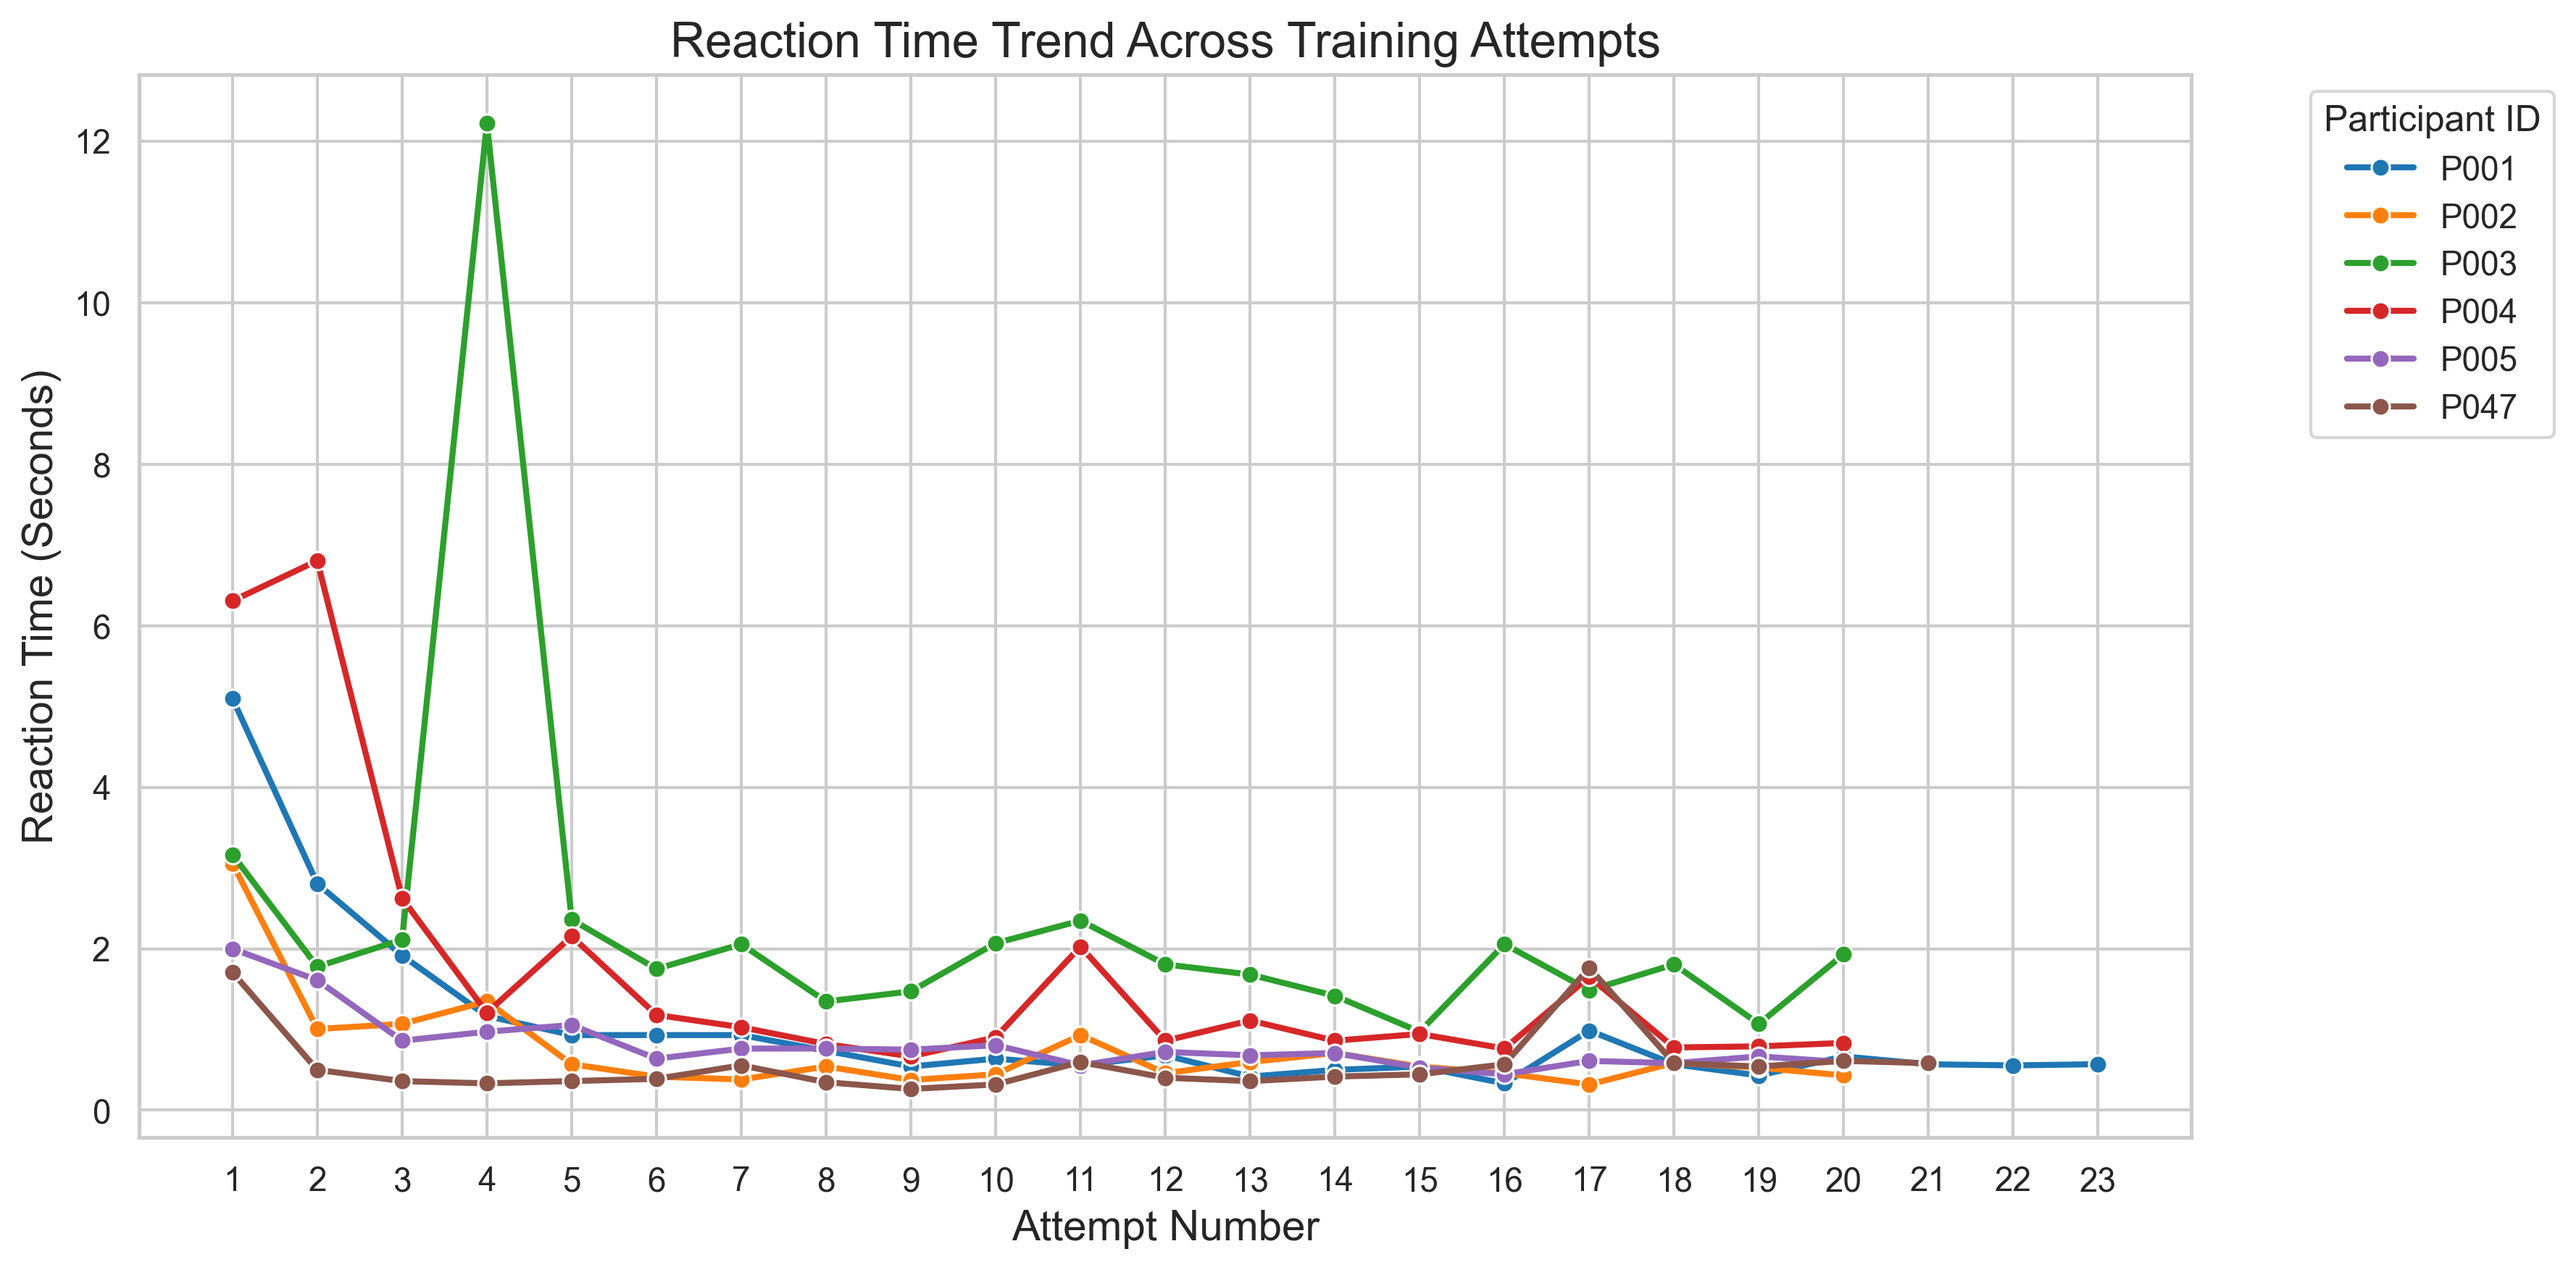
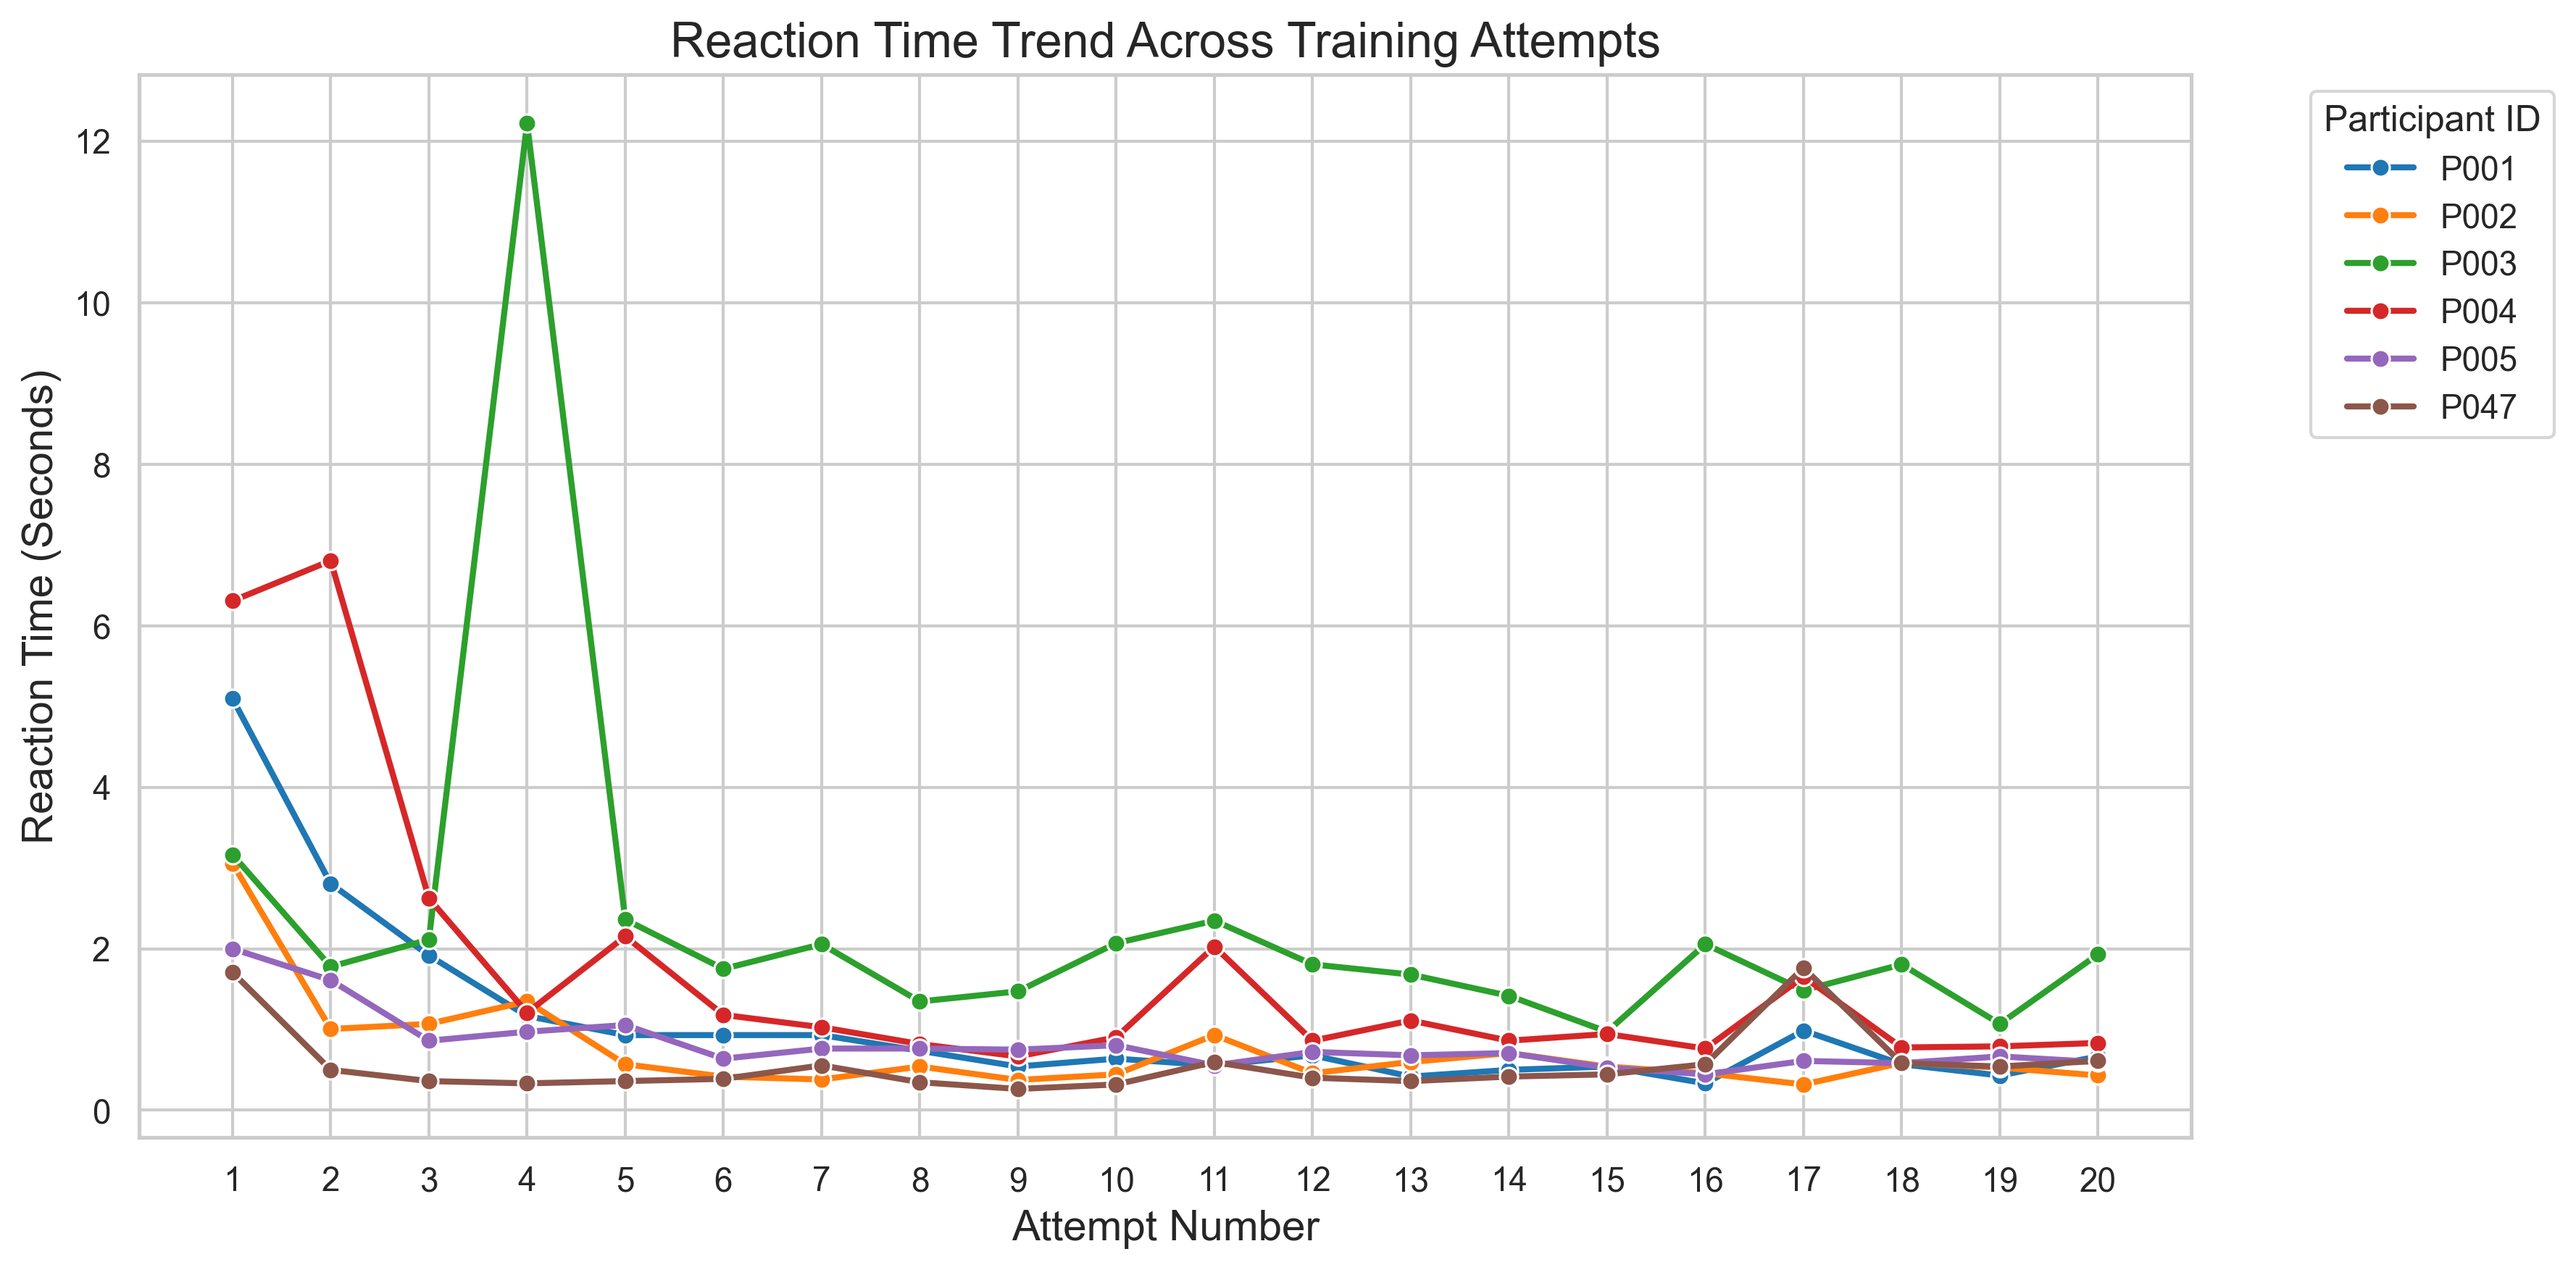
bbb

diff --git a/Analysing/Graph2.py b/Analysing/Graph2.py
@@ -21,7 +21,6 @@ folder_path = "E:\\Project\\6CCE3EEP_FYP\\Analysing\\PC\\"
 # 2. 自动抓取该文件夹下所有符合命名规律的 csv 文件
 # 匹配你在 Unity 里设置的文件名格式：P001_TrackingData_xxx.csv
 file_list = glob.glob(os.path.join(folder_path, "*_TrackingData_*.csv"))
-# 只分析答对的试次，剔除乱找的数据
 
 # 3. 循环读取并合并
 df_list = []
@@ -34,7 +33,17 @@ df_all = pd.concat(df_list, ignore_index=True)
 
 print(f"成功合并了 {len(file_list)} 个被试的数据！共 {len(df_all)} 行。")
 
-# 接下来，你就可以把 df_all 直接当成之前代码里的 df 来画图了！
+# 【新增：读取 Training 基线数据】
+folder_path_train = "E:\\Project\\6CCE3EEP_FYP\\"
+baseline_file_path = os.path.join(folder_path_train, 'Training_Converged_Results.csv')
+# 增加一个防报错机制，如果没找到原文件，找 Max20 版本
+try:
+    train_baseline_df = pd.read_csv(baseline_file_path)
+except FileNotFoundError:
+    train_baseline_df = pd.read_csv(os.path.join(folder_path_train, 'Training_Converged_Results_Max20.csv'))
+
+# 提取基线字典 (使用最后5次趋近平均值作为该被试的颜色识别误差时间)
+baseline_dict = dict(zip(train_baseline_df['ParticipantID'], train_baseline_df['Converged_Time_Last5_sec']))
 
 
 # ==========================================
@@ -47,6 +56,11 @@ rt_df.rename(columns={'TimeStamp_sec': 'ReactionTime'}, inplace=True)
 # 过滤：只保留答对的试次，并剔除大于 10 秒的离群值
 rt_df_correct = rt_df[(rt_df['isCorrect'] == 1) & (rt_df['ReactionTime'] <= 10.0)].copy()
 
+# 【新增核心步骤：减去 Training 的颜色识别误差时间】
+rt_df_correct['BaselineTime'] = rt_df_correct['ParticipantID'].map(baseline_dict)
+rt_df_correct = rt_df_correct.dropna(subset=['BaselineTime']) # 防止匹配失败导致NaN
+rt_df_correct['Adjusted_RT'] = rt_df_correct['ReactionTime'] - rt_df_correct['BaselineTime']
+
 # 【核心更新：应用你的真实 32 目标坐标系】
 # 定义 8 个水平方位和 4 个垂直高度的数组
 azimuth_map = [0, 45, 90, 135, 180, -135, -90, -45]
@@ -56,19 +70,19 @@ elevation_map = [-30, 0, 30, 60]
 rt_df_correct['Target_Yaw'] = rt_df_correct['TargetNumber'].apply(lambda x: azimuth_map[int(x) // 4])
 rt_df_correct['Target_Pitch'] = rt_df_correct['TargetNumber'].apply(lambda x: elevation_map[int(x) % 4])
 
-# 分组计算 HRTF_A 和 HRTF_B 在每个空间位置的“平均寻找时间”
-spatial_rt = rt_df_correct.groupby(['Phase', 'Target_Yaw', 'Target_Pitch'])['ReactionTime'].mean().reset_index()
+# 分组计算 HRTF_A 和 HRTF_B 在每个空间位置的“平均寻找时间” (替换为使用净时间 Adjusted_RT)
+spatial_rt = rt_df_correct.groupby(['Phase', 'Target_Yaw', 'Target_Pitch'])['Adjusted_RT'].mean().reset_index()
 
 # ==========================================
 # 3. 开始绘图 (双子图对比气泡图)
 # ==========================================
 # 获取全局最短和最长的时间，确保左右两张图的颜色和气泡大小共用同一套标准
-vmin = spatial_rt['ReactionTime'].min()
-vmax = spatial_rt['ReactionTime'].max()
+vmin = spatial_rt['Adjusted_RT'].min()
+vmax = spatial_rt['Adjusted_RT'].max()
 
 fig, axes = plt.subplots(1, 2, figsize=(15, 6), sharey=True)
 phases = ['HRTF_A', 'HRTF_B']
-titles = ['HRTF A 空间耗时分布', 'HRTF B 空间耗时分布']
+titles = ['HRTF A Spatial Search Time Distribution', 'HRTF B Spatial Search Time Distribution']
 
 # 为了让画出来的图符合人类直觉，强制规范 X轴(从左到右) 和 Y轴(从下到上) 的刻度顺序
 x_order = [-135, -90, -45, 0, 45, 90, 135, 180]
@@ -78,10 +92,10 @@ for i, phase in enumerate(phases):
     ax = axes[i]
     phase_data = spatial_rt[spatial_rt['Phase'] == phase]
     
-    # 绘制散点气泡图
+    # 绘制散点气泡图 (将 size 和 hue 绑定到减去误差后的 Adjusted_RT)
     scatter = sns.scatterplot(
         x='Target_Yaw', y='Target_Pitch',
-        size='ReactionTime', hue='ReactionTime',
+        size='Adjusted_RT', hue='Adjusted_RT',
         sizes=(150, 1500), # 气泡大小的变化范围，可根据画面拥挤程度调整
         alpha=0.8,
         palette='YlOrRd',  # 黄-橙-红渐变，红色代表耗时最久 (盲区)
@@ -93,7 +107,7 @@ for i, phase in enumerate(phases):
     )
     
     ax.set_title(titles[i], fontsize=15, fontweight='bold', pad=15)
-    ax.set_xlabel('水平方位角 Yaw (度)', fontsize=12)
+    ax.set_xlabel('Horizontal Yaw (degrees)', fontsize=12)
     
     # 强制设置 X 和 Y 轴刻度，展示你设计的所有可能点位
     ax.set_xticks(x_order)
@@ -106,7 +120,7 @@ for i, phase in enumerate(phases):
     # 加入网格辅助线，便于对应具体坐标
     ax.grid(True, linestyle='--', alpha=0.6)
 
-axes[0].set_ylabel('垂直高度角 Pitch (度)', fontsize=12)
+axes[0].set_ylabel('Vertical Pitch (degrees)', fontsize=12)
 
 # ==========================================
 # 4. 添加全局统一的颜色图例 (Colorbar)
@@ -114,10 +128,11 @@ axes[0].set_ylabel('垂直高度角 Pitch (度)', fontsize=12)
 sm = plt.cm.ScalarMappable(cmap='YlOrRd', norm=plt.Normalize(vmin=vmin, vmax=vmax))
 sm.set_array([])
 cbar = fig.colorbar(sm, ax=axes, orientation='vertical', fraction=0.02, pad=0.02)
-cbar.set_label('平均寻找时间 (秒)', fontsize=12, labelpad=10)
+# 稍微修改了 Colorbar 的标签以匹配数据逻辑
+cbar.set_label('Average Adjusted Search Time (seconds)', fontsize=12, labelpad=10)
 
-plt.suptitle('空间听觉定位耗时分布对比 (红色气泡越大代表耗时越久)', fontsize=18, fontweight='bold', y=1.05)
+plt.suptitle('Spatial Auditory Localization Time Distribution Comparison (Larger Red Bubbles Indicate Longer Times)', fontsize=18, fontweight='bold', y=1.05)
 
 # 保存高刷大图
-plt.savefig('Fig2_Spatial_BubblePlot.png', dpi=300, bbox_inches='tight')
+plt.savefig('Figure 2 Spatial_BubblePlot.png', dpi=300, bbox_inches='tight')
 plt.show()

diff --git a/Analysing/Graph1.py b/Analysing/Graph1.py
@@ -1,0 +1,121 @@
+import pandas as pd
+import matplotlib.pyplot as plt
+import seaborn as sns
+import matplotlib.ticker as ticker
+import glob
+import os
+import warnings
+
+# 忽略 Seaborn 的一些版本警告
+warnings.filterwarnings("ignore")
+
+# ==========================================
+# 0. 基础设置与中文字体支持
+# ==========================================
+plt.rcParams['font.sans-serif'] = ['SimHei', 'Microsoft YaHei']
+plt.rcParams['axes.unicode_minus'] = False
+
+# ==========================================
+# 1. 读取数据 (包含 Tracking 和 Training 基线)
+# ==========================================
+# 1.1 读取 Tracking 数据
+folder_path = "E:\\Project\\6CCE3EEP_FYP\\Analysing\\PC\\"
+file_list = glob.glob(os.path.join(folder_path, "*_TrackingData_*.csv"))
+
+df_list = []
+for file in file_list:
+    temp_df = pd.read_csv(file)
+    df_list.append(temp_df)
+
+df_all = pd.concat(df_list, ignore_index=True)
+print(f"成功合并了 {len(file_list)} 个 Tracking 数据！共 {len(df_all)} 行。")
+
+# 1.2 读取 Training 趋近结果 (提取基线)
+# 修复了之前的路径问题，确保它去 PC 文件夹下找这个文件
+folder_path_train = "E:\\Project\\6CCE3EEP_FYP\\"
+baseline_file_path = os.path.join(folder_path_train, 'Training_Converged_Results.csv')
+train_baseline_df = pd.read_csv(baseline_file_path)
+
+# 我们采用“最后5次的平均趋近时间”作为该被试的个人生理基线
+baseline_dict = dict(zip(train_baseline_df['ParticipantID'], train_baseline_df['Converged_Time_Last5_sec']))
+
+# ==========================================
+# 2. 数据处理：计算调整后的反应时间 (Adjusted Reaction Time)
+# ==========================================
+# 提取反应时间
+rt_df = df_all.groupby(['ParticipantID', 'Phase', 'Trial', 'isCorrect'])['TimeStamp_sec'].max().reset_index()
+rt_df.rename(columns={'TimeStamp_sec': 'ReactionTime'}, inplace=True)
+
+# 过滤答对的试次
+rt_df_correct = rt_df[rt_df['isCorrect'] == 1].copy()
+
+# 【核心步骤】：映射被试的 Training 基线，并做减法
+rt_df_correct['BaselineTime'] = rt_df_correct['ParticipantID'].map(baseline_dict)
+rt_df_correct = rt_df_correct.dropna(subset=['BaselineTime'])
+rt_df_correct['Adjusted_RT'] = rt_df_correct['ReactionTime'] - rt_df_correct['BaselineTime']
+
+# ==========================================
+# 2.5 数据过滤：剔除极端离群值 (基于 Adjusted_RT)
+# ==========================================
+original_count = len(rt_df_correct)
+
+Q1 = rt_df_correct['Adjusted_RT'].quantile(0.25)
+Q3 = rt_df_correct['Adjusted_RT'].quantile(0.75)
+IQR = Q3 - Q1
+
+lower_bound = Q1 - 1.5 * IQR
+upper_bound = Q3 + 1.5 * IQR
+
+rt_df_filtered = rt_df_correct[
+    (rt_df_correct['Adjusted_RT'] >= lower_bound) & 
+    (rt_df_correct['Adjusted_RT'] <= upper_bound)
+]
+
+dropped_count = original_count - len(rt_df_filtered)
+print(f"【数据清洗】已剔除 {dropped_count} 条离群数据。")
+
+# ==========================================
+# 3. 开始绘图 (小提琴图 + 蜂群散点图)
+# ==========================================
+plt.figure(figsize=(9, 6))
+sns.set_theme(style="whitegrid") # 使用带网格的白底，更适合看清刻度
+
+# 3.1 画小提琴图底色
+sns.violinplot(
+    x='Phase', 
+    y='Adjusted_RT', 
+    data=rt_df_filtered, 
+    inner="box",         # 内部保留迷你箱线图看四分位数
+    palette=["#4C72B0", "#DD8452"], 
+    alpha=0.8
+)
+
+# 3.2 画内部的散点 (蜂群图 Swarmplot)
+sns.swarmplot(
+    x='Phase', 
+    y='Adjusted_RT', 
+    data=rt_df_filtered, 
+    color='black', 
+    alpha=0.6, 
+    size=4               # 稍微调小了点大小，防止您6个人的数据点重叠太厉害
+)
+
+# ==========================================
+# 4. 图表美化与细节设置
+# ==========================================
+
+plt.xlabel('Experiment Condition', fontsize=13)
+plt.ylabel('Adjusted Time (s)', fontsize=13)
+
+# 更改 X 轴标签
+plt.xticks(ticks=[0, 1], labels=['HRTF A', 'HRTF B'], fontsize=12)
+
+# 【核心要求】：强制纵轴 (Y轴) 的刻度间隔为 0.5 秒
+plt.gca().yaxis.set_major_locator(ticker.MultipleLocator(0.5))
+plt.yticks(fontsize=11)
+
+# 保存与显示
+plt.tight_layout()
+plt.savefig('Figure 1 Tracking_Adjusted_RT_Violinplot.png', dpi=300, bbox_inches='tight')
+print("✅ 图表已成功生成并保存为 'Figure 1 Tracking_Adjusted_RT_Violinplot.png'。")
+plt.show()

diff --git a/Analysing/Training set.py b/Analysing/Training set.py
@@ -12,6 +12,7 @@ import os
 path = "E:\\Project\\6CCE3EEP_FYP\\Analysing\\PC\\"
 training_files = glob.glob(os.path.join(path, '*_TrainingData_*.csv'))
 df_train = pd.concat([pd.read_csv(os.path.join(path, f)) for f in training_files])
+df_train = df_train[df_train['AttemptNum'] <= 20]
 
 # ==========================================
 # 1. 第一部分：绘制反应时间趋势图
